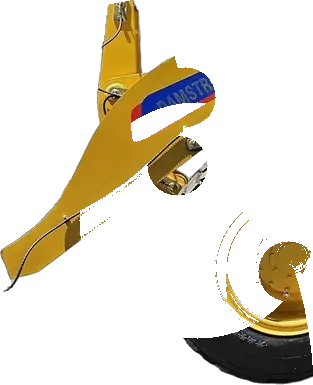
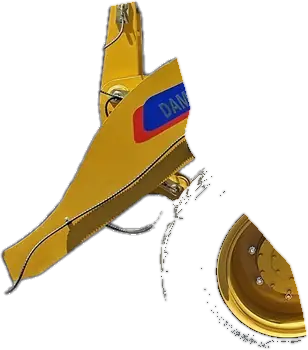
Keep the photo loader level and cut each piece to its real outline.
The drive scene is one still body plus the arms and bucket, which rotate only around the front-frame pin. Puzzle pieces use a full tire and a soft edge, and the ghost is lighter so placed parts stand out.

Changed region(s): [[0.0, 0.0, 0.7013, 0.8571], [0.5844, 0.5429, 1.0, 1.0]]

diff --git a/bernie/loader/loader.js b/bernie/loader/loader.js
@@ -3,33 +3,21 @@
 (function () {
   var BOARD = { w: 1000, h: 618 };
   var PARTS = [
-    { id: "counterweight", name: "Counterweight", src: "img/counterweight.webp", x: 8, y: 225, w: 313, h: 385, group: "body" },
-    { id: "rear-wheel", name: "Rear wheel", src: "img/rear-wheel.webp", x: 87, y: 327, w: 264, h: 237, inset: "img/inset-rear-wheel.webp", group: "body" },
-    { id: "engine", name: "Engine", src: "img/engine.webp", x: 116, y: 215, w: 289, h: 280, inset: "img/inset-engine.webp", group: "body" },
-    { id: "cab", name: "Cab", src: "img/cab.webp", x: 332, y: 8, w: 292, h: 273, inset: "img/inset-cab.webp", group: "body" },
-    { id: "frame", name: "Front frame", src: "img/frame.webp", x: 303, y: 161, w: 489, h: 441, group: "body" },
-    { id: "front-wheel", name: "Front wheel", src: "img/front-wheel.webp", x: 557, y: 310, w: 258, h: 226, inset: "img/inset-front-wheel.webp", group: "body" },
-    { id: "arms", name: "Lift arms", src: "img/arms.webp", x: 490, y: 10, w: 335, h: 282, inset: "img/inset-arms.webp", group: "arms" },
-    { id: "bucket", name: "Bucket", src: "img/bucket.webp", x: 756, y: 173, w: 235, h: 376, inset: "img/inset-bucket.webp", group: "bucket" }
+    { id: "counterweight", name: "Counterweight", src: "img/counterweight.webp", x: 6, y: 223, w: 308, h: 350, group: "body" },
+    { id: "rear-wheel", name: "Rear wheel", src: "img/rear-wheel.webp", x: 156, y: 344, w: 265, h: 268, inset: "img/inset-rear-wheel.webp", group: "body" },
+    { id: "engine", name: "Engine", src: "img/engine.webp", x: 114, y: 213, w: 271, h: 277, inset: "img/inset-engine.webp", group: "body" },
+    { id: "cab", name: "Cab", src: "img/cab.webp", x: 342, y: 6, w: 395, h: 277, inset: "img/inset-cab.webp", group: "body" },
+    { id: "frame", name: "Front frame", src: "img/frame.webp", x: 294, y: 40, w: 496, h: 558, group: "body" },
+    { id: "front-wheel", name: "Front wheel", src: "img/front-wheel.webp", x: 608, y: 296, w: 281, h: 255, inset: "img/inset-front-wheel.webp", group: "body" },
+    { id: "arms", name: "Lift arms", src: "img/arms.webp", x: 472, y: 175, w: 320, h: 141, inset: "img/inset-arms.webp", group: "arms" },
+    { id: "bucket", name: "Bucket", src: "img/bucket.webp", x: 758, y: 134, w: 235, h: 411, inset: "img/inset-bucket.webp", group: "bucket" }
   ];
-  /* Arm pivot and bucket pin, in board pixels. */
+  /* Front-frame pin the lift arms rotate around. The body never tilts. */
   var LINK = {
-    pivot: { x: 545, y: 200 },
-    hinge: { x: 812, y: 228 },
-    carry: { arm: -18, bucket: -14 },
-    dump: { arm: -6, bucket: 36 }
+    pivot: { x: 518, y: 247 },
+    carry: -20,
+    dump: -28
   };
-
-  function piece(part) {
-    var img = document.createElement("img");
-    img.className = "bit";
-    img.alt = "";
-    img.src = part.src;
-    img.style.left = (part.x / BOARD.w * 100) + "%";
-    img.style.top = (part.y / BOARD.h * 100) + "%";
-    img.style.width = (part.w / BOARD.w * 100) + "%";
-    return img;
-  }
 
   function layer(className, origin) {
     var node = document.createElement("div");
@@ -40,33 +28,30 @@
     return node;
   }
 
-  /* Drive pose. Assembly is drawn by the shared build engine. */
+  function plate(src) {
+    var img = document.createElement("img");
+    img.className = "plate";
+    img.alt = "";
+    img.src = src;
+    return img;
+  }
+
+  /* Drive pose: one still body, and the arms+bucket rotating on the pin. */
   function draw(host, state) {
     host.innerHTML = "";
     var pose = state.pose || "rest";
     var rig = document.createElement("div");
     rig.className = "photo-rig";
     var link = layer("linkage", LINK.pivot);
-    var bucketPivot = layer("bucket-pivot", LINK.hinge);
-    var spin = pose === "carry" ? LINK.carry : (pose === "dump" ? LINK.dump : null);
-    if (spin) {
-      link.style.transform = "rotate(" + spin.arm + "deg)";
-      bucketPivot.style.transform = "rotate(" + spin.bucket + "deg)";
-    }
-    var i;
-    for (i = 0; i < PARTS.length; i++) {
-      var part = PARTS[i];
-      if (state.parts.indexOf(part.id) === -1) continue;
-      if (part.group === "arms") link.appendChild(piece(part));
-      else if (part.group === "bucket") bucketPivot.appendChild(piece(part));
-      else rig.appendChild(piece(part));
-    }
+    var angle = pose === "carry" ? LINK.carry : (pose === "dump" ? LINK.dump : 0);
+    if (angle) link.style.transform = "rotate(" + angle + "deg)";
+    link.appendChild(plate("img/linkage.webp"));
     if (state.carrying) {
       var dirt = document.createElement("div");
       dirt.className = "scoop-dirt";
-      bucketPivot.appendChild(dirt);
+      link.appendChild(dirt);
     }
-    link.appendChild(bucketPivot);
+    rig.appendChild(plate("img/body.webp"));
     rig.appendChild(link);
     host.appendChild(rig);
   }
@@ -81,9 +66,9 @@
     pile: "img/pile.webp",
     draw: draw,
     drive: {
-      start: { x: 0.5, y: 0.68 },
-      pile: { x: 0.84, y: 0.66 },
-      dump: { x: 0.16, y: 0.68 },
+      start: { x: 0.5, y: 0.86 },
+      pile: { x: 0.82, y: 0.86 },
+      dump: { x: 0.18, y: 0.86 },
       near: 120
     }
   };

diff --git a/bernie/bernie.css b/bernie/bernie.css
@@ -143,15 +143,23 @@ body.bernie {
   width: 100%;
   height: 100%;
   object-fit: fill;
-  opacity: 0.28;
+  opacity: 0.42;
+  filter: grayscale(0.7) brightness(1.5);
   pointer-events: none;
 }
 
 .board .bit,
-.photo-rig .bit {
+.photo-rig .bit,
+.photo-rig .plate {
   position: absolute;
   height: auto;
   pointer-events: none;
+}
+
+.photo-rig .plate {
+  inset: 0;
+  width: 100%;
+  height: 100%;
 }
 
 .board .target {
@@ -235,10 +243,10 @@ body.bernie {
 
 .scoop-dirt {
   position: absolute;
-  left: 80%;
-  top: 42%;
-  width: 12%;
-  height: 7%;
+  left: 82%;
+  top: 36%;
+  width: 11%;
+  height: 8%;
   border-radius: 50%;
   background: radial-gradient(circle at 35% 35%, #d7b07a, #6a3c18 70%);
   box-shadow: 0 2px 0 rgba(40, 22, 8, 0.35);
@@ -376,13 +384,13 @@ body.bernie {
 .pile {
   width: 150px;
   height: 112px;
-  transform: translate(-42%, -78%);
+  transform: translate(-50%, -100%);
 }
 
 .truck {
   width: 188px;
   height: 100px;
-  transform: translate(-50%, -78%);
+  transform: translate(-50%, -100%);
 }
 
 .rig {

diff --git a/bernie/shared/drive.js b/bernie/shared/drive.js
@@ -297,7 +297,7 @@
       }
       rig.style.left = (pos.x * 100) + "%";
       rig.style.top = (pos.y * 100) + "%";
-      rig.style.transform = "translate(-50%, -70%) scaleX(" + facing + ")";
+      rig.style.transform = "translate(-50%, -100%) scaleX(" + facing + ")";
       var piled = Math.min(loads, 6);
       dirt.setAttribute("height", String(piled * 8));
       dirt.setAttribute("y", String(100 - piled * 8));
@@ -340,7 +340,7 @@
     function go(next) {
       target = {
         x: clamp(next.x, 0.1, 0.9),
-        y: clamp(next.y, 0.34, 0.78)
+        y: origin.y
       };
       if (!raf) raf = window.requestAnimationFrame(step);
     }
@@ -371,7 +371,7 @@
       if (dragging && grab) {
         face(here.x - grab.x);
         pos.x = clamp(grab.ox + (here.x - grab.x), 0.1, 0.9);
-        pos.y = clamp(grab.oy + (here.y - grab.y), 0.34, 0.78);
+        pos.y = origin.y;
         paint();
         return;
       }

diff --git a/bernie/shared/build.js b/bernie/shared/build.js
@@ -175,7 +175,7 @@
       wrap.classList.remove("placing");
       paintBoard();
       if (placed.length >= vehicle.parts.length) {
-        showFinale();
+        window.setTimeout(showFinale, reduced() ? 40 : 900);
         return;
       }
       question = questions.makeQuestion();
